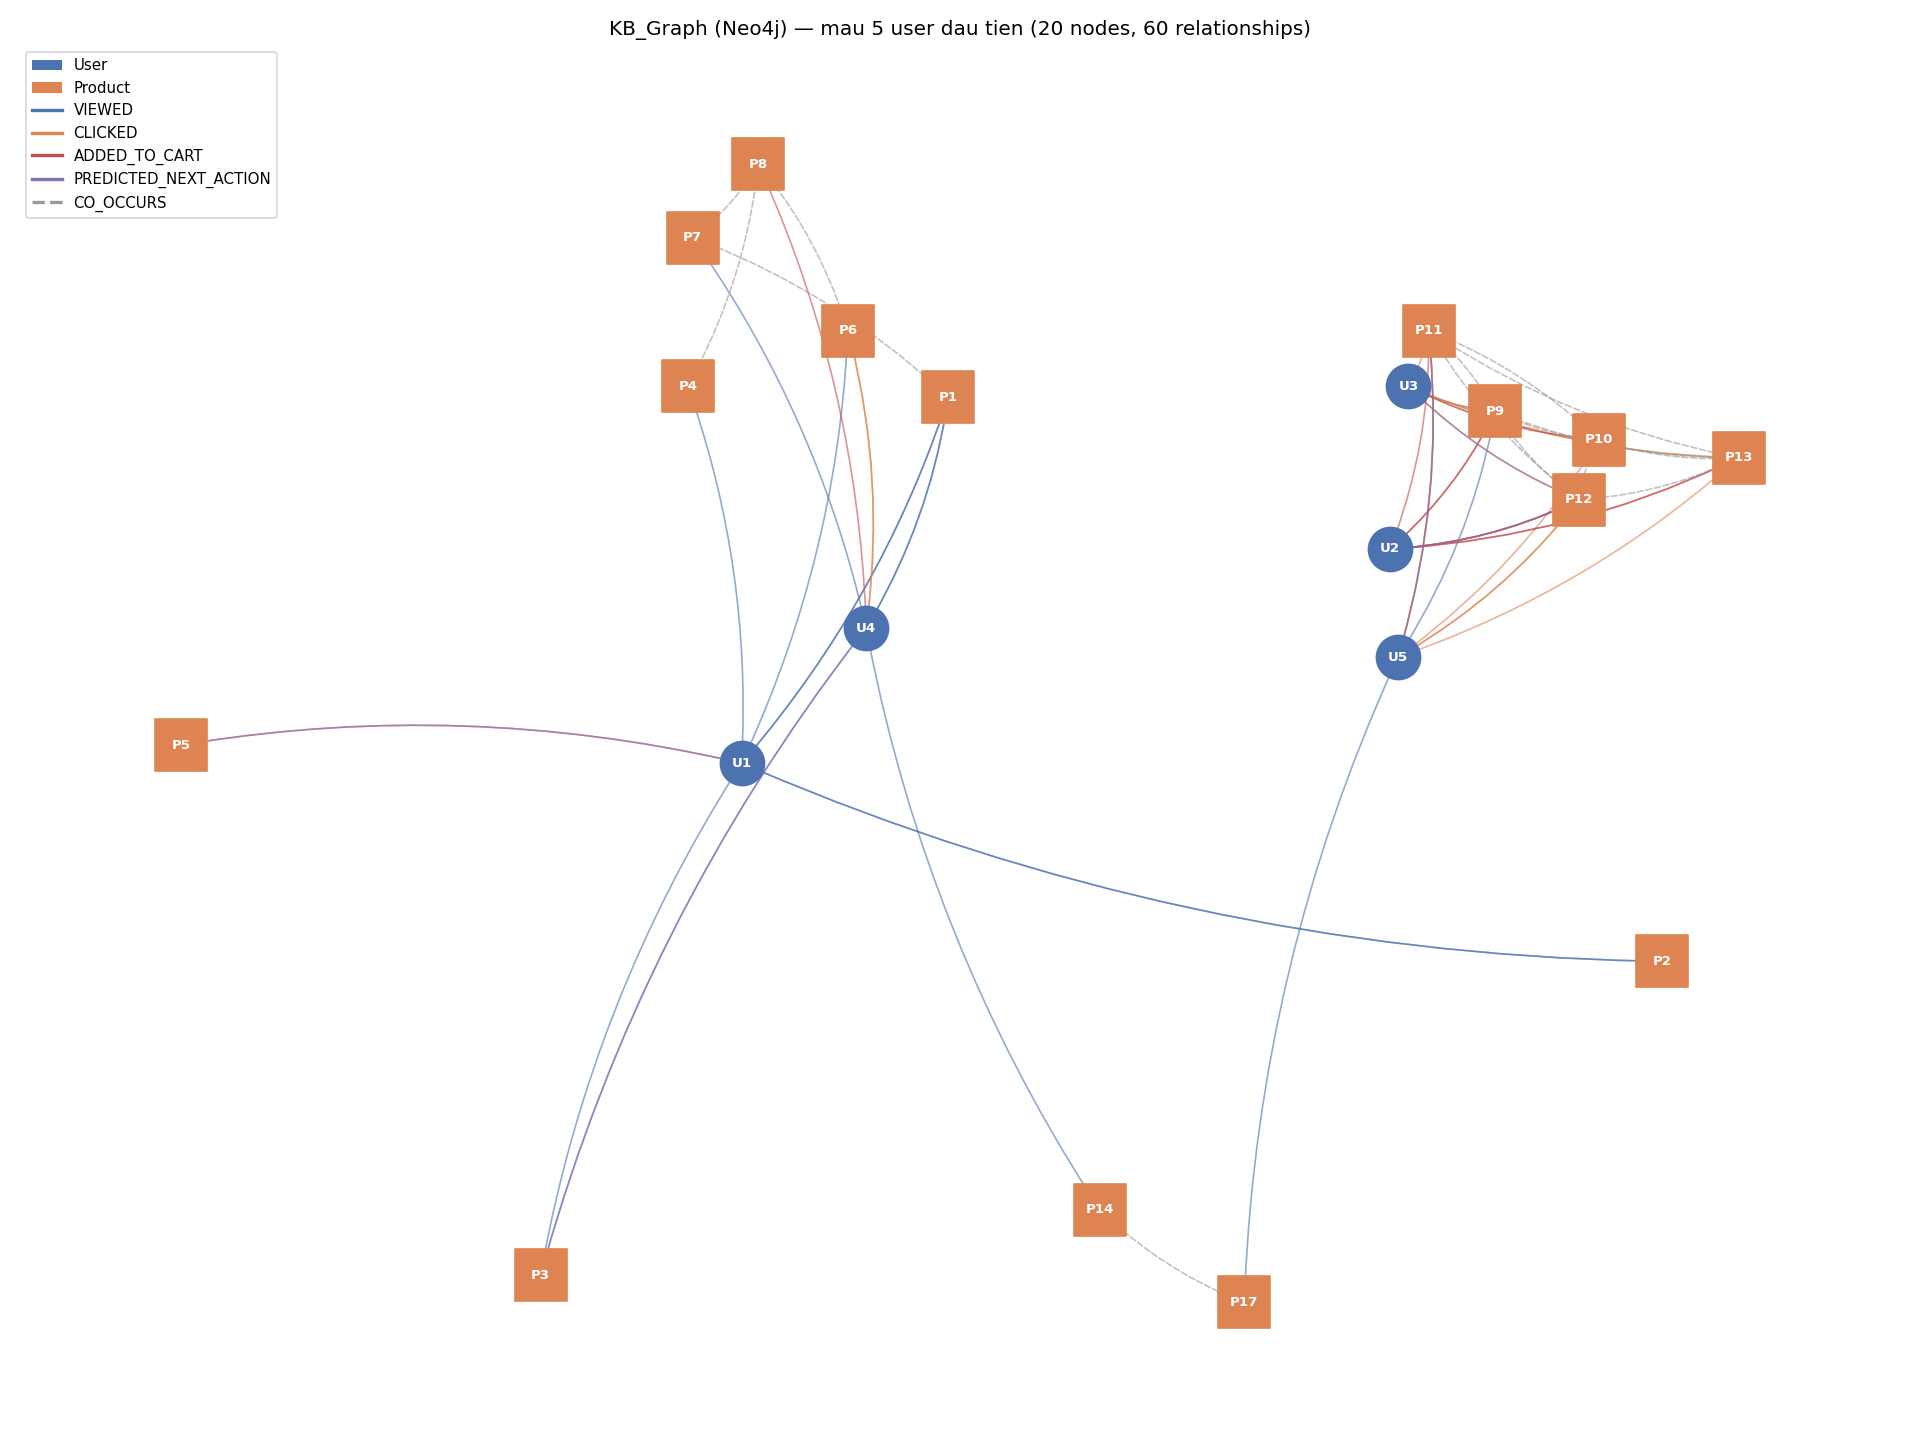
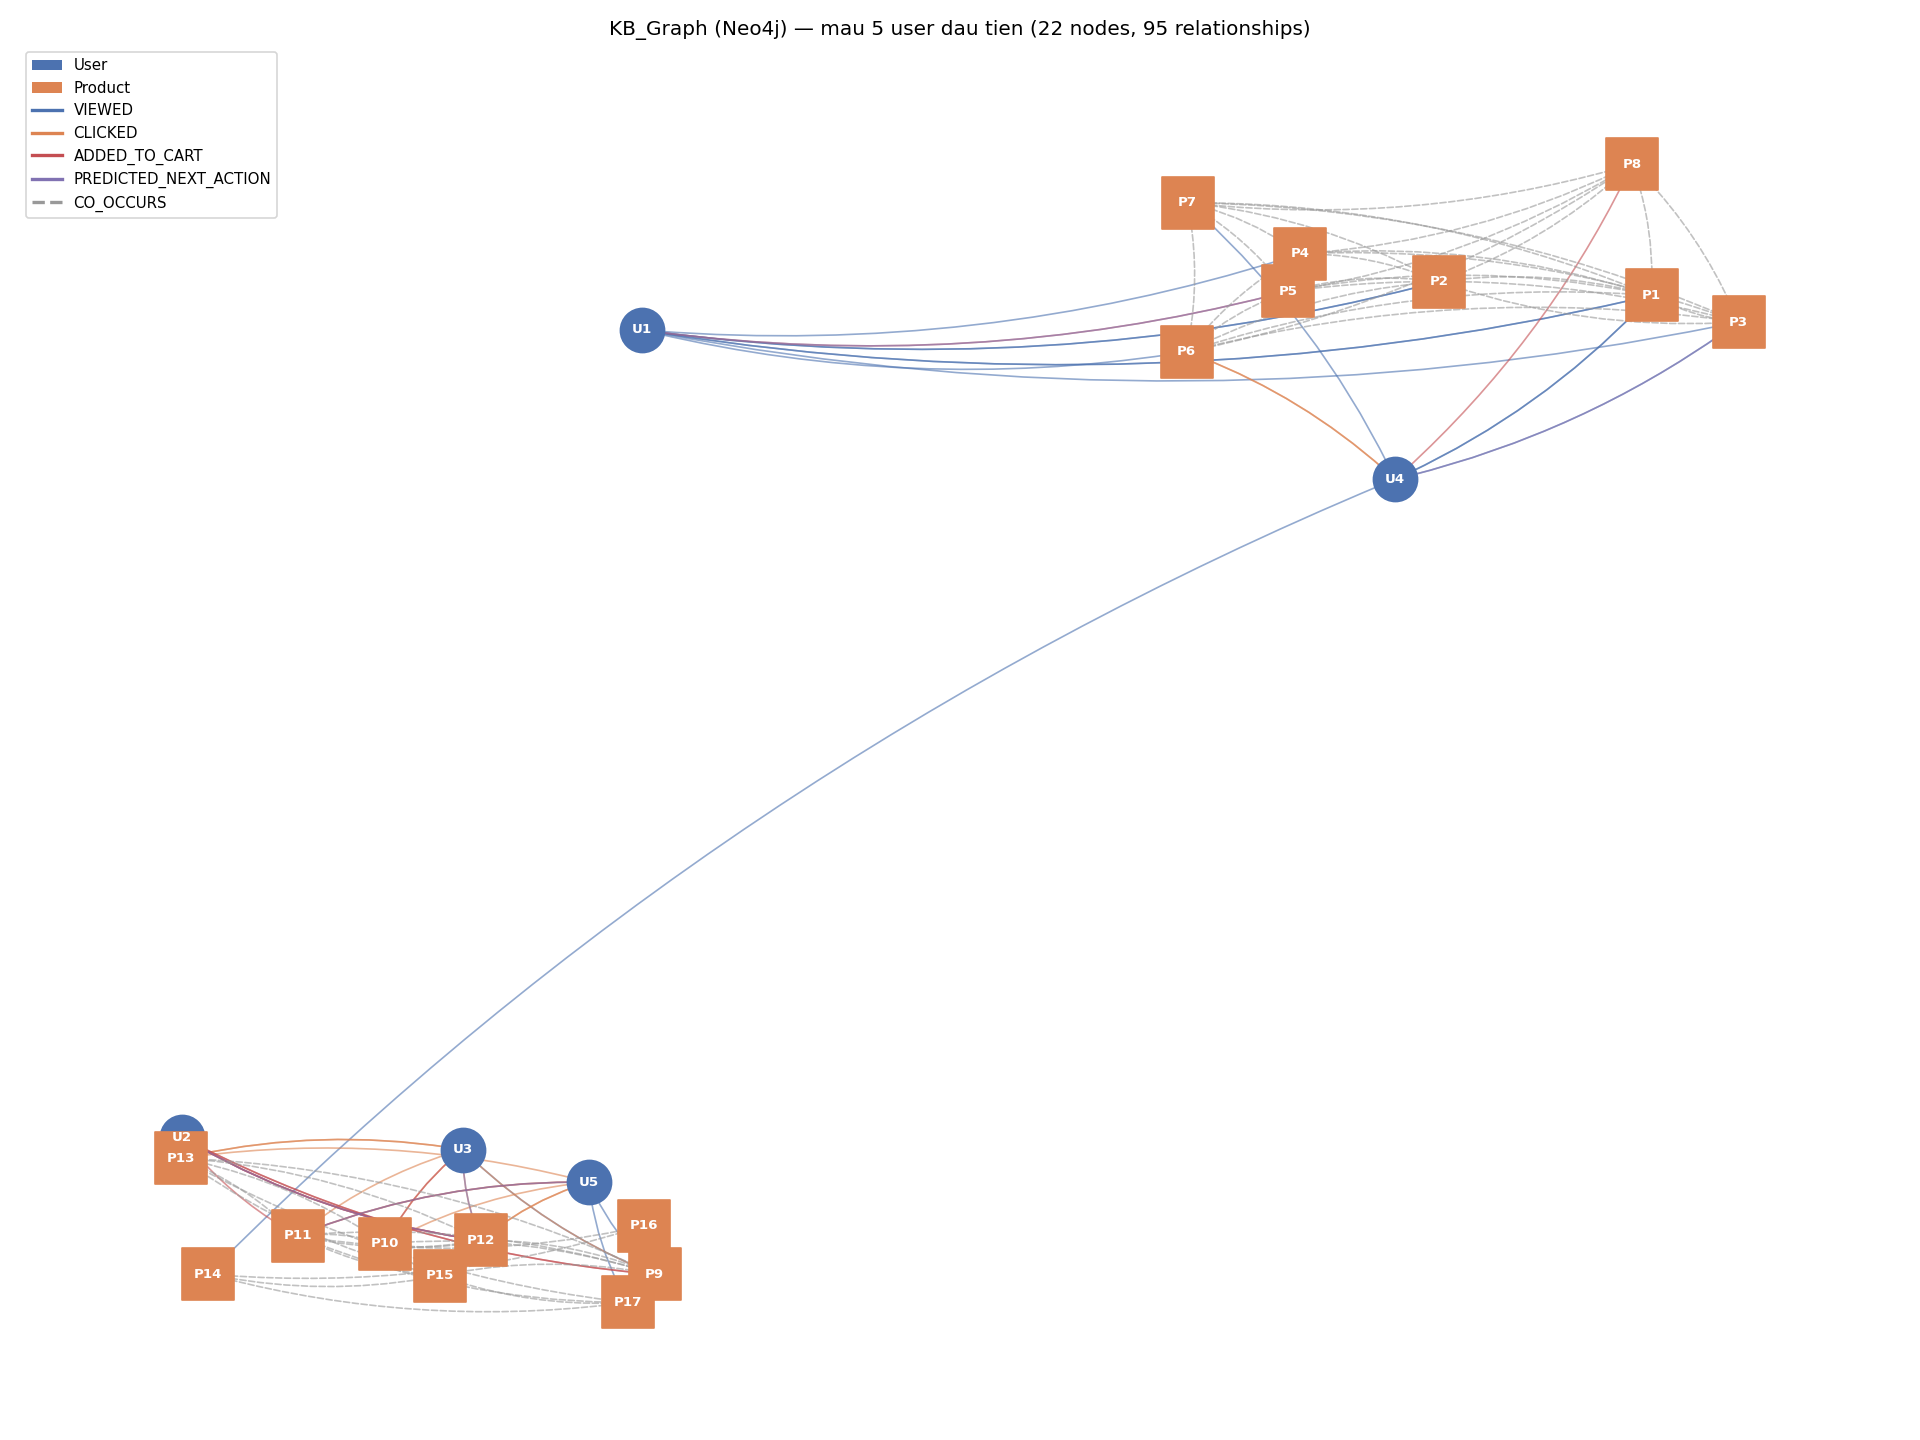
aaa

diff --git a/ecom-final/ai-service/graph/visualize_kb_graph.py b/ecom-final/ai-service/graph/visualize_kb_graph.py
@@ -52,12 +52,14 @@ def fetch_subgraph(driver):
         if product_ids:
             result = session.run("""
                 MATCH (p1:Product)-[c:CO_OCCURS]->(p2:Product)
-                WHERE p1.product_id IN $pids AND p2.product_id IN $pids
+                WHERE p1.product_id IN $pids OR p2.product_id IN $pids
                 RETURN p1.product_id AS p1, p2.product_id AS p2, c.weight AS weight
-                ORDER BY c.weight DESC LIMIT 15
+                ORDER BY c.weight DESC LIMIT 50
             """, pids=product_ids)
             for rec in result:
                 p1, p2 = f"P{rec['p1']}", f"P{rec['p2']}"
+                G.add_node(p1, kind='product')
+                G.add_node(p2, kind='product')
                 G.add_edge(p1, p2, rel='CO_OCCURS', weight=rec['weight'])
 
     return G

diff --git a/danh_gia_phan_hoi.md b/danh_gia_phan_hoi.md
@@ -1,0 +1,151 @@
+# ĐÁNH GIÁ & PHẢN HỒI THEO TỪNG CHƯƠNG — ĐỀ TÀI "HỆ THỐNG E-COMMERCE MICROSERVICES (ECOMAI)"
+
+> Cấu trúc: mỗi chương gồm (1) tự đánh giá cá nhân và (2) phản hồi của **10 người bạn** (mỗi người đều có ý kiến cho cả 4 chương, theo đúng chuyên môn của họ).
+
+**Danh sách 10 người bạn tham gia đánh giá:**
+
+| # | Tên | Chuyên môn |
+|---|-----|-----------|
+| 1 | Minh Tuấn | Backend (Java/Spring) |
+| 2 | Thảo Nhi | Frontend (React) |
+| 3 | Đức Anh | AI/ML |
+| 4 | Phương Linh | QA/Testing |
+| 5 | Quang Huy | DevOps |
+| 6 | Hải Yến | Database |
+| 7 | Nam Khánh | Security |
+| 8 | Bảo Châu | Kinh tế (không chuyên IT) |
+| 9 | Tiến Đạt | Mobile (Flutter) |
+| 10 | Mỹ Hạnh | Quản lý dự án / SA&D |
+
+---
+
+## CHƯƠNG 1: TỪ MONOLITHIC ĐẾN MICROSERVICES VÀ DDD
+
+### Tự đánh giá
+
+Chương 1 đóng vai trò nền tảng lý thuyết, đi từ Monolithic → vấn đề gặp phải → Microservices → DDD. Điểm mạnh là có ví dụ thực tế (cấu trúc thư mục Django monolithic) giúp người đọc dễ liên hệ. Điểm yếu: phần so sánh Monolithic vs Microservices còn mang tính lý thuyết sách giáo khoa, chưa gắn trực tiếp với những khó khăn cụ thể mà nhóm gặp phải khi làm đồ án (vì đồ án làm microservices từ đầu, không thực sự "chuyển đổi" từ một bản monolithic có thật).
+
+### Phản hồi từ 10 người bạn
+
+1. **Minh Tuấn (Backend)**: "Sơ đồ kiến trúc Monolithic rõ ràng, dễ hiểu. Nhưng phần lý do 'tại sao tách' nên dẫn chứng bằng vấn đề cụ thể của hệ EcomAI (ví dụ: AI service cần PyTorch nặng, không nên chung container với Django) thay vì chỉ nói chung 'khó scale, khó maintain'."
+
+2. **Thảo Nhi (Frontend)**: "Chương này tập trung backend là hợp lý vì đó là trọng tâm đồ án, nhưng có thể thêm 1-2 câu về việc frontend monolithic (1 SPA lớn) so với nhiều trang tĩnh tách biệt như EcomAI để phần lý thuyết bao quát hơn."
+
+3. **Đức Anh (AI/ML)**: "Phần này chưa nhắc đến AI Service — hợp lý vì AI là phần mở rộng sau, nhưng nên có 1 câu dẫn dắt kiểu 'kiến trúc monolithic gần như không thể tích hợp một AI service nặng về tính toán', để chương 1 có cầu nối tự nhiên đến chương 3."
+
+4. **Phương Linh (QA)**: "Một góc nhìn thiếu trong chương 1: monolithic dễ test hơn (1 codebase, 1 lần chạy test suite) còn microservices cần chiến lược test riêng (unit, contract test, integration). Đây là trade-off quan trọng nên được nêu ngay từ đầu vì ảnh hưởng đến toàn bộ đồ án sau này."
+
+5. **Quang Huy (DevOps)**: "Phần triển khai (deployment) của Monolithic vs Microservices nên được nhấn mạnh hơn — ví dụ 1 server vs nhiều container — vì đây chính là điều chương 4 sẽ hiện thực hóa bằng 17 container. Hiện tại sơ đồ có nhưng thiếu liên kết 'tại sao việc này dẫn đến 17 container ở chương 4'."
+
+6. **Hải Yến (Database)**: "Ví dụ monolithic dùng 'Single Shared Database' rất đúng, nhưng nên nói rõ hơn vấn đề cụ thể: khi 6 module dùng chung 1 DB, một migration sai ở module Product có thể làm sập luôn module Order — đây là động lực chính cho Database-per-Service ở chương 2."
+
+7. **Nam Khánh (Security)**: "Góc bảo mật: monolithic có ưu điểm là dễ áp dụng 1 lớp authentication chung, còn microservices phải giải quyết bài toán xác thực phân tán (JWT, mỗi service tự verify). Chương 1 chưa đề cập điều này, nhưng nó chính là lý do JWT được chọn ở chương 2-4."
+
+8. **Bảo Châu (Kinh tế)**: "Phần giải thích khái niệm rất dễ hiểu với người không chuyên, sơ đồ trực quan. Mình hiểu được vì sao 'một khối lớn' lại khó sửa hơn 'nhiều khối nhỏ' — ví dụ về thư mục Django giúp mình hình dung rõ hơn."
+
+9. **Tiến Đạt (Mobile)**: "Từ góc độ client (mobile/frontend), monolithic thường nghĩa là 1 base URL API duy nhất, còn microservices qua gateway vẫn có thể trông giống 1 base URL nhờ API Gateway — chương 1 nên nói rõ điểm này để người đọc không nghĩ microservices nghĩa là client phải gọi 8 địa chỉ khác nhau."
+
+10. **Mỹ Hạnh (PM/SA&D)**: "Về mặt trình bày, chương 1 làm tốt vai trò 'đặt vấn đề' cho toàn bộ tiểu luận — đi từ khái niệm quen thuộc (monolithic) đến khái niệm mới (DDD, bounded context) một cách tuần tự, hợp với cấu trúc một báo cáo SA&D. Góp ý duy nhất là nên có một đoạn kết ngắn tóm tắt 'những nguyên tắc nào từ chương 1 sẽ được áp dụng cụ thể ở chương 2' để tăng tính liên kết giữa các chương."
+
+---
+
+## CHƯƠNG 2: PHÁT TRIỂN HỆ E-COMMERCE MICROSERVICES (PHÂN TÍCH & THIẾT KẾ DDD)
+
+### Tự đánh giá
+
+Đây là chương mình tự tin nhất về mặt thiết kế: 11 functional requirements rõ ràng, bounded context ánh xạ 1-1 sang service, và đặc biệt là User Service áp dụng đúng DDD (Aggregate Root, Value Object, Entity). Class diagram và database schema cho 6 service + sequence diagram luồng mua hàng end-to-end giúp chương này có tính thực thi cao. Hạn chế: chỉ User Service được phân tích DDD sâu (Aggregate/VO/Entity), các service còn lại (Cart, Order, Payment, Shipping) thiết kế khá "CRUD thuần", chưa thấy rõ Aggregate Root hay Domain Event ở các service đó.
+
+### Phản hồi từ 10 người bạn
+
+1. **Minh Tuấn (Backend)**: "Thiết kế Order với 8 trạng thái và Payment với 5 phương thức/5 trạng thái khá đầy đủ cho một hệ thương mại điện tử. Tuy nhiên Order nên được xem là Aggregate Root chứa OrderItem, và việc chuyển trạng thái (pending → confirmed → ...) nên có validate transition rõ ràng (state machine), hiện tại class diagram chưa thể hiện ràng buộc này."
+
+2. **Thảo Nhi (Frontend)**: "Cart Service với `total_price`/`total_items` là computed property rất tiện cho frontend hiển thị — điểm này tốt. Nhưng `CartItem` lưu `product_name`, `product_price`, `product_image` denormalized từ Product Service — nên nói rõ trong tài liệu cơ chế đồng bộ khi giá sản phẩm thay đổi (giá trong cart có cập nhật theo Product Service không?)."
+
+3. **Đức Anh (AI/ML)**: "Chương 2 đặt nền cho chương 3 khá tốt qua việc đưa Redis và Neo4j vào sơ đồ data model tổng thể từ sớm. Tuy nhiên `UserBehaviorEvent` (bảng quan trọng cho AI) lại không xuất hiện trong class diagram Product Service ở mục 2.4 — nên bổ sung để người đọc thấy được sự liên kết giữa thiết kế DDD và pipeline AI ngay từ chương này."
+
+4. **Phương Linh (QA)**: "Sequence diagram luồng mua hàng end-to-end (2.6.1) rất hữu ích — đây chính là 'happy path' nên được viết test integration đầu tiên. Activity diagram xử lý thanh toán (2.6.2) cũng nêu rõ các nhánh thành công/thất bại, nhưng tài liệu chưa nói service nào sẽ chịu trách nhiệm rollback nếu Payment thành công nhưng Shipping tạo lỗi — đây là edge case quan trọng cần test."
+
+5. **Quang Huy (DevOps)**: "6 database riêng biệt (1 MySQL + 5 PostgreSQL) đúng chuẩn Database-per-Service, dễ container hóa từng phần. Góp ý: nên ghi chú thêm trong chương 2 là mỗi DB sẽ có volume riêng (sẽ thấy ở chương 4) để người đọc hiểu ngay từ thiết kế đã tính đến việc persist dữ liệu khi container restart."
+
+6. **Hải Yến (Database)**: "Phần 2.7.2 so sánh MySQL vs PostgreSQL rất rõ ràng và có lý do thuyết phục (ENUM native cho User, JSONB cho Product specs). Một điểm cần lưu ý: `Electronics.specifications` là JSONB không có schema cố định — nên nói thêm về việc index các field JSON hay nào để tránh full scan khi filter theo specs (ví dụ filter theo RAM, dung lượng)."
+
+7. **Nam Khánh (Security)**: "RBAC ở mục 2.3.3 phân quyền theo Admin/Staff/Customer khá rõ ràng và đủ cho phạm vi đồ án. Tuy nhiên bảng RBAC này được định nghĩa ở User Service, còn việc *thực thi* (enforce) lại nằm ở từng service riêng (Product, Order...) — chương 2 nên mô tả cơ chế các service khác kiểm tra `role` từ JWT claims như thế nào, vì đây là điểm dễ bị làm sai (mỗi service tự check không đồng nhất)."
+
+8. **Bảo Châu (Kinh tế)**: "Phần class diagram và sơ đồ database khá kỹ thuật nên mình không đánh giá sâu được, nhưng đọc phần RBAC (bảng phân quyền Admin/Staff/Customer) thì rất dễ hiểu — giống như phân quyền nhân viên trong một công ty thực tế (ai được xem báo cáo, ai được sửa giá sản phẩm...)."
+
+9. **Tiến Đạt (Mobile)**: "API endpoints ở mục 2.3.5 (`/auth/register/`, `/auth/login/`, `/auth/token/refresh/`...) là những endpoint cơ bản mà app mobile chắc chắn cần dùng. Điểm cần bổ sung: chưa thấy endpoint logout / revoke refresh token — với app mobile, việc người dùng đăng xuất trên 1 thiết bị nhưng token vẫn còn hạn ở thiết bị khác là vấn đề thực tế cần xử lý."
+
+10. **Mỹ Hạnh (PM/SA&D)**: "Đây là chương có giá trị học thuật cao nhất xét theo môn SA&D: đi từ Functional/Non-functional Requirements → Use Case → Bounded Context → Class Diagram → Database Schema → Sequence Diagram, đúng trình tự phân tích thiết kế chuẩn. Góp ý: nên có một bảng traceability nhỏ map từ FR-01..FR-11 (mục 2.1.1) sang service tương ứng, để thấy rõ mọi yêu cầu đều được 'phủ' bởi thiết kế."
+
+---
+
+## CHƯƠNG 3: AI SERVICE CHO TƯ VẤN SẢN PHẨM
+
+### Tự đánh giá
+
+Chương 3 là phần đầu tư nhiều công sức nhất: huấn luyện và so sánh thực nghiệm RNN/LSTM/BiLSTM (chọn BiLSTM, F1-macro 0.5267), xây KB_Graph trên Neo4j, và Graph-RAG cho chatbot. Việc trình bày pipeline tổng thể (3.1.2) giúp người đọc thấy được luồng dữ liệu thật từ frontend → product-service → AI service. Hạn chế lớn nhất là dữ liệu huấn luyện (`data_user500.csv`) được sinh mô phỏng (`simulate_behavior`) theo persona giả định, nên kết quả F1 ~0.53 phản ánh dữ liệu giả nhiều hơn là hành vi người dùng thật.
+
+### Phản hồi từ 10 người bạn
+
+1. **Minh Tuấn (Backend)**: "Cơ chế ghi `user_behavior_log.csv` đồng thời với lưu DB (3.3.1) là một giải pháp pragmatic để chia sẻ dữ liệu giữa Django và FastAPI mà không cần message broker — phù hợp với quy mô đồ án. Nhưng về lâu dài, ghi file CSV từ nhiều request đồng thời (concurrent writes) có thể gây race condition/corrupt file mà tài liệu chưa đề cập."
+
+2. **Thảo Nhi (Frontend)**: "Chatbot widget với lịch sử lưu localStorage (3.6.3) là điểm UX tốt. Tuy nhiên câu trả lời chatbot trả về text đã ghép sẵn (bao gồm cả `graph_note`) — nên cân nhắc tách `answer` và `graph_note` thành 2 trường riêng ở response để frontend linh hoạt hiển thị (ví dụ graph_note hiển thị dạng badge 'Gợi ý dành riêng cho bạn' khác màu)."
+
+3. **Đức Anh (AI/ML)**: "Phần 3.2-3.4 làm bài bản: cùng kiến trúc cơ sở `SequenceClassifier`, cùng hyperparameter, so sánh fair giữa 3 model, có confusion matrix và training curves — đúng phương pháp thực nghiệm. Nhận xét ở 3.4.2 về overfitting (gap train/val) của LSTM/BiLSTM rất tốt, cho thấy hiểu bản chất chứ không chỉ chạy số. Góp ý: với dataset nhỏ (~350 mẫu train), nên thử thêm k-fold cross-validation để kết quả F1-macro đáng tin cậy hơn, vì chia 1 lần train/val/test với dữ liệu nhỏ dễ bị 'may rủi' theo cách chia."
+
+4. **Phương Linh (QA)**: "Phần 3.7.3 (volume mount read-only cho AI service) là thiết kế tốt về tách biệt trách nhiệm. Nhưng toàn bộ chương 3 không có test nào cho pipeline AI: không test `build_context()` trả về đúng format khi KB_Graph trống, không test `/recommend` khi `model_best.pt` chưa tồn tại (lần đầu chạy). Đây là các edge case dễ gây lỗi 500 khi demo nếu thứ tự khởi động container không đúng."
+
+5. **Quang Huy (DevOps)**: "Background refresh KB_Graph mỗi 120s (3.7.3) chạy bằng `asyncio.run_in_executor` trong cùng process với FastAPI — với CPU-only PyTorch, việc này có thể block event loop nếu KB_Graph lớn. Nên đo thời gian 1 lần refresh để xác nhận có ảnh hưởng đến response time của `/recommend`/`/chatbot` trong lúc refresh hay không."
+
+6. **Hải Yến (Database)**: "KB_Graph trên Neo4j với các quan hệ VIEWED/CLICKED/ADDED_TO_CART/CO_OCCURS/PREDICTED_NEXT_ACTION (3.5.3) là một mô hình dữ liệu graph hợp lý cho bài toán gợi ý. Tuy nhiên tài liệu chưa nói về việc dọn dữ liệu cũ — nếu refresh liên tục mỗi 120s mà không xóa quan hệ PREDICTED_NEXT_ACTION cũ, graph sẽ phình to và chứa nhiều dự đoán lỗi thời cho cùng 1 user."
+
+7. **Nam Khánh (Security)**: "`POST /graph/refresh` (3.7.3) là một endpoint có thể tốn tài nguyên (rebuild toàn bộ KB_Graph) — hiện tại không thấy đề cập việc endpoint này có cần xác thực admin hay không. Nếu để public, đây có thể là vector cho DoS đơn giản (gọi liên tục để CPU luôn bận rebuild graph)."
+
+8. **Bảo Châu (Kinh tế)**: "Mình rất thích ví dụ chatbot trả lời 'tôi cần laptop gaming dưới 20 triệu' và gợi ý đúng sản phẩm kèm giá — phần này giải thích dễ hiểu cho người không chuyên: hệ thống 'nhớ' những gì mình từng xem để gợi ý đúng hơn. Câu trả lời tiếng Việt tự nhiên, không bị máy móc."
+
+9. **Tiến Đạt (Mobile)**: "Response của `/chatbot` (3.6.4) trả về khá nhiều trường lồng nhau (`recommended_products`, `graph_context`, `sources`...) — với app mobile, càng nhiều trường thì càng cần models/DTO rõ ràng phía client. Nên có versioning cho API AI (`/v1/chatbot`) vì cấu trúc response này có khả năng thay đổi nhiều khi cải thiện model."
+
+10. **Mỹ Hạnh (PM/SA&D)**: "Chương 3 là điểm nhấn khác biệt của đồ án so với một e-commerce thông thường — việc trình bày từ bài toán, kiến trúc model, dữ liệu, đến kết quả và tích hợp thực tế tạo thành một mạch hoàn chỉnh. Góp ý về trình bày: phần 3.4.1 (bảng kết quả) nên đặt ngay sau phần đặt vấn đề (3.2.1) trong một bản tóm tắt ở đầu chương — vì F1=0.53 là một con số mà hội đồng chắc chắn sẽ hỏi ngay, nên cần được 'đóng khung' bối cảnh (dataset nhỏ, mô phỏng) trước khi họ thấy số liệu."
+
+---
+
+## CHƯƠNG 4: XÂY DỰNG HỆ THỐNG HOÀN CHỈNH
+
+### Tự đánh giá
+
+Chương 4 là chương "ráp tất cả lại": kiến trúc tổng thể 17 container, tech stack đầy đủ, cấu trúc code thật, nginx gateway, docker-compose, luồng JWT, API response mẫu cho từng luồng chính, và phần đánh giá ưu/nhược điểm + hướng cải thiện. Đây cũng là chương có giá trị "chứng minh" cao nhất vì show được hệ thống chạy thật (response JSON thật, không phải giả định). Hạn chế: phần 4.7.1 (hiệu năng ước tính) ghi rõ là "ước tính" — chưa có số liệu đo thật bằng công cụ load test (k6, JMeter, Locust), nên tính thuyết phục còn hạn chế.
+
+### Phản hồi từ 10 người bạn
+
+1. **Minh Tuấn (Backend)**: "Phần 4.3.1 (cấu trúc thư mục) cho thấy mỗi service đều theo đúng convention Django (models/serializers/views/urls/migrations) — nhất quán, dễ onboard người mới. Tuy nhiên các service Order/Payment/Shipping gọi nhau qua REST đồng bộ (`*_SERVICE_URL` trong docker-compose) — đúng như mình góp ý ở phần A trước đó, đây là điểm nghẽn nếu 1 trong các service downstream chậm."
+
+2. **Thảo Nhi (Frontend)**: "10 trang HTML x 2 theme (4.8) hiển thị đẹp và đầy đủ luồng mua hàng. Phần `frontend/nginx.conf` proxy `/auth/`, `/products/`... sang gateway (4.3.1) giúp frontend gọi API cùng origin, tránh CORS — thiết kế hợp lý. Góp ý nhỏ: nên liệt kê rõ trong tài liệu cách đồng bộ giữa các file `*.html` và `*-dark.html` (ví dụ dùng script build hay sửa tay từng file?)."
+
+3. **Đức Anh (AI/ML)**: "Response mẫu `/recommend` (4.6.4) thể hiện rõ chiến lược fallback: ưu tiên KB_Graph (BiLSTM), fallback LSTM demo khi chưa có dữ liệu — đây là thiết kế tốt cho 'cold start'. Phần 4.7.4 cũng tự nhận ra vấn đề cold-start và đề xuất hướng giải quyết (trending products + Graph-RAG mở rộng category) — cho thấy đồ án có tư duy đánh giá khách quan về hạn chế của chính mình."
+
+4. **Phương Linh (QA)**: "Bảng 4.7.1 (hiệu năng ước tính) ghi rõ là ước tính, nên không nên dùng để kết luận hệ thống 'đạt yêu cầu < 200ms cho GET' như nêu ở chương 2 (Non-functional Requirements) — đây là điểm hội đồng dễ bắt lỗi: yêu cầu đặt ra ở chương 2 nhưng chương 4 chưa đo thật để xác nhận đạt hay không. Nên chạy ít nhất 1 lần load test đơn giản (ví dụ Apache Bench) cho `/products/` để có số liệu thật thay 'ước tính'."
+
+5. **Quang Huy (DevOps)**: "docker-compose.yml (4.3.3) với healthcheck cho DB và `depends_on: condition: service_healthy` là thực hành tốt, tránh race condition khi service khởi động trước khi DB sẵn sàng. Tuy nhiên `command` của user-service/product-service chạy `migrate` + `seed` mỗi lần container start — nếu chạy lại `docker compose up` nhiều lần, cần đảm bảo các management command này idempotent (không tạo trùng dữ liệu seed)."
+
+6. **Hải Yến (Database)**: "6 volume riêng cho 6 database (4.3.3, phần `volumes:`) đảm bảo dữ liệu persist qua các lần restart — đúng thực hành. Một câu hỏi đáng đặt ra cho phần 4.7: nếu cần backup, chiến lược backup cho 6 database + Neo4j riêng biệt là gì? Với 1 database trong monolithic, backup đơn giản hơn nhiều so với 6+1 database như hiện tại."
+
+7. **Nam Khánh (Security)**: "Mục 4.4 (luồng JWT) trình bày rõ ràng access/refresh token. Tuy nhiên 4.5.3 công khai mật khẩu mặc định (`Admin@123`, `Staff@123`, `Customer@123`) và 4.3.3 dùng `password` cho mọi DB — với mục đích demo thì hợp lý, nhưng tài liệu nên có 1 dòng cảnh báo rõ 'đây là giá trị demo, không dùng cho production' để tránh hiểu nhầm khi hội đồng đọc."
+
+8. **Bảo Châu (Kinh tế)**: "Phần 4.6 (API response mẫu) cho mình thấy hệ thống hoạt động thật — ví dụ response đăng nhập, danh sách sản phẩm, tạo đơn hàng đều có dữ liệu cụ thể (giá tiền, tracking code...) nên rất thuyết phục, không giống chỉ là bản vẽ trên giấy. Mục 4.8 tổng kết theo từng khía cạnh (kiến trúc, AI, frontend, triển khai) giúp người đọc không chuyên như mình dễ nắm được toàn bộ kết quả."
+
+9. **Tiến Đạt (Mobile)**: "1 API Gateway duy nhất (port 80) cho toàn hệ thống (4.3.2) là điểm rất thuận lợi nếu sau này phát triển thêm app mobile — chỉ cần 1 base URL. Góp ý: nginx.conf hiện tại set `Access-Control-Allow-Origin *` (rất mở) — với mobile app thường không bị ảnh hưởng bởi CORS, nhưng nếu sau này có thêm web admin riêng domain khác, nên giới hạn origin cụ thể."
+
+10. **Mỹ Hạnh (PM/SA&D)**: "Chương 4 hoàn thành tốt vai trò 'bằng chứng triển khai' — từ thiết kế (chương 2) đến hiện thực (chương 4) có sự nhất quán cao (ví dụ Order 8 trạng thái ở 2.5.2 khớp với mô tả ở 4.6.3). Mục 4.7.4 (nhược điểm và hướng cải thiện) là phần mình đánh giá cao nhất vì thể hiện tư duy phản biện — đúng tinh thần một báo cáo SA&D không chỉ trình bày 'cái đã làm' mà còn 'biết giới hạn của cái đã làm'. Để hoàn thiện, nên thêm bảng đối chiếu Non-functional Requirements (chương 2.1.2) với kết quả đạt được thực tế (chương 4.7) — hiện hai phần này chưa được liên kết trực tiếp."
+
+---
+
+## TỔNG HỢP CHUNG (4 CHƯƠNG)
+
+| Chương | Điểm mạnh nổi bật | Góp ý chung được nhiều người nhắc |
+|---|---|---|
+| 1 | Lý thuyết dễ hiểu, sơ đồ trực quan | Cần liên kết rõ hơn với các vấn đề cụ thể sẽ giải quyết ở chương 2-4 |
+| 2 | DDD áp dụng tốt cho User Service, đầy đủ class diagram/DB schema/sequence diagram | Áp dụng DDD (Aggregate/Domain Event) sâu hơn cho Order/Payment/Shipping; thêm traceability FR → service |
+| 3 | So sánh thực nghiệm 3 model bài bản, Graph-RAG là điểm khác biệt | Dữ liệu mô phỏng nên được "đóng khung" rõ ngay từ đầu; thiếu test cho pipeline AI |
+| 4 | Hệ thống chạy thật, response mẫu thuyết phục, tự đánh giá khách quan | Số liệu hiệu năng cần đo thật (không chỉ ước tính); đối chiếu lại với Non-functional Requirements ở chương 2 |
+
+**Nhận xét tổng thể**: Cả 10 người bạn đều đánh giá đồ án có tính hoàn chỉnh cao (từ lý thuyết → thiết kế → AI → triển khai chạy thật), với điểm khác biệt rõ nhất là việc tích hợp AI (BiLSTM + KB_Graph + Graph-RAG) vào kiến trúc microservices. Các góp ý lặp lại nhiều nhất xoay quanh: (1) tăng tính liên kết giữa các chương (chương sau nên đối chiếu lại với yêu cầu/thiết kế ở chương trước), (2) bổ sung kiểm thử (cả cho service nghiệp vụ và pipeline AI), và (3) làm rõ ranh giới "giá trị demo" vs "production-ready" ở các phần liên quan đến bảo mật và hiệu năng.

diff --git a/tieuluan_chuong4.md b/tieuluan_chuong4.md
@@ -762,6 +762,16 @@ Response 200 OK:
 
 `PATCH /shipping/{id}/update/` đóng vai trò webhook cập nhật trạng thái vận chuyển (`picked_up -> in_transit -> out_for_delivery -> delivered`); khi `status='delivered'`, shipping-service tự gọi `PATCH order-service:8003/orders/{order_id}/status/` với `status='delivered'`.
 
+### 4.6.7 Minh họa KB_Graph (Neo4j)
+
+`ai-service/graph/visualize_kb_graph.py` trích xuất một phần KB_Graph từ Neo4j (mẫu 5 user đầu tiên: U1-U5) và vẽ bằng networkx/matplotlib, lưu kết quả tại `ai-service/graph/kb_graph_sample.png`:
+
+![KB_Graph Neo4j sample](ecom-final/ai-service/graph/kb_graph_sample.png)
+
+*Hình 4.2: Minh họa KB_Graph (Neo4j) — node hình tròn xanh là User, node hình vuông cam là Product. Các cạnh thể hiện 5 loại quan hệ: `VIEWED`, `CLICKED`, `ADDED_TO_CART` (User → Product, từ dữ liệu hành vi thực tế), `PREDICTED_NEXT_ACTION` (User → Product, dự đoán của model_best BiLSTM) và `CO_OCCURS` (Product → Product, đường nét đứt, hai sản phẩm cùng được một user tương tác).*
+
+Có thể tạo lại ảnh bằng cách chạy `docker exec ai-service python graph/visualize_kb_graph.py` (yêu cầu container `neo4j` đang chạy và KB_Graph đã được build qua `POST /graph/refresh` hoặc khi `ai-service` khởi động).
+
 ---
 
 ## 4.7 Đánh giá Hệ thống